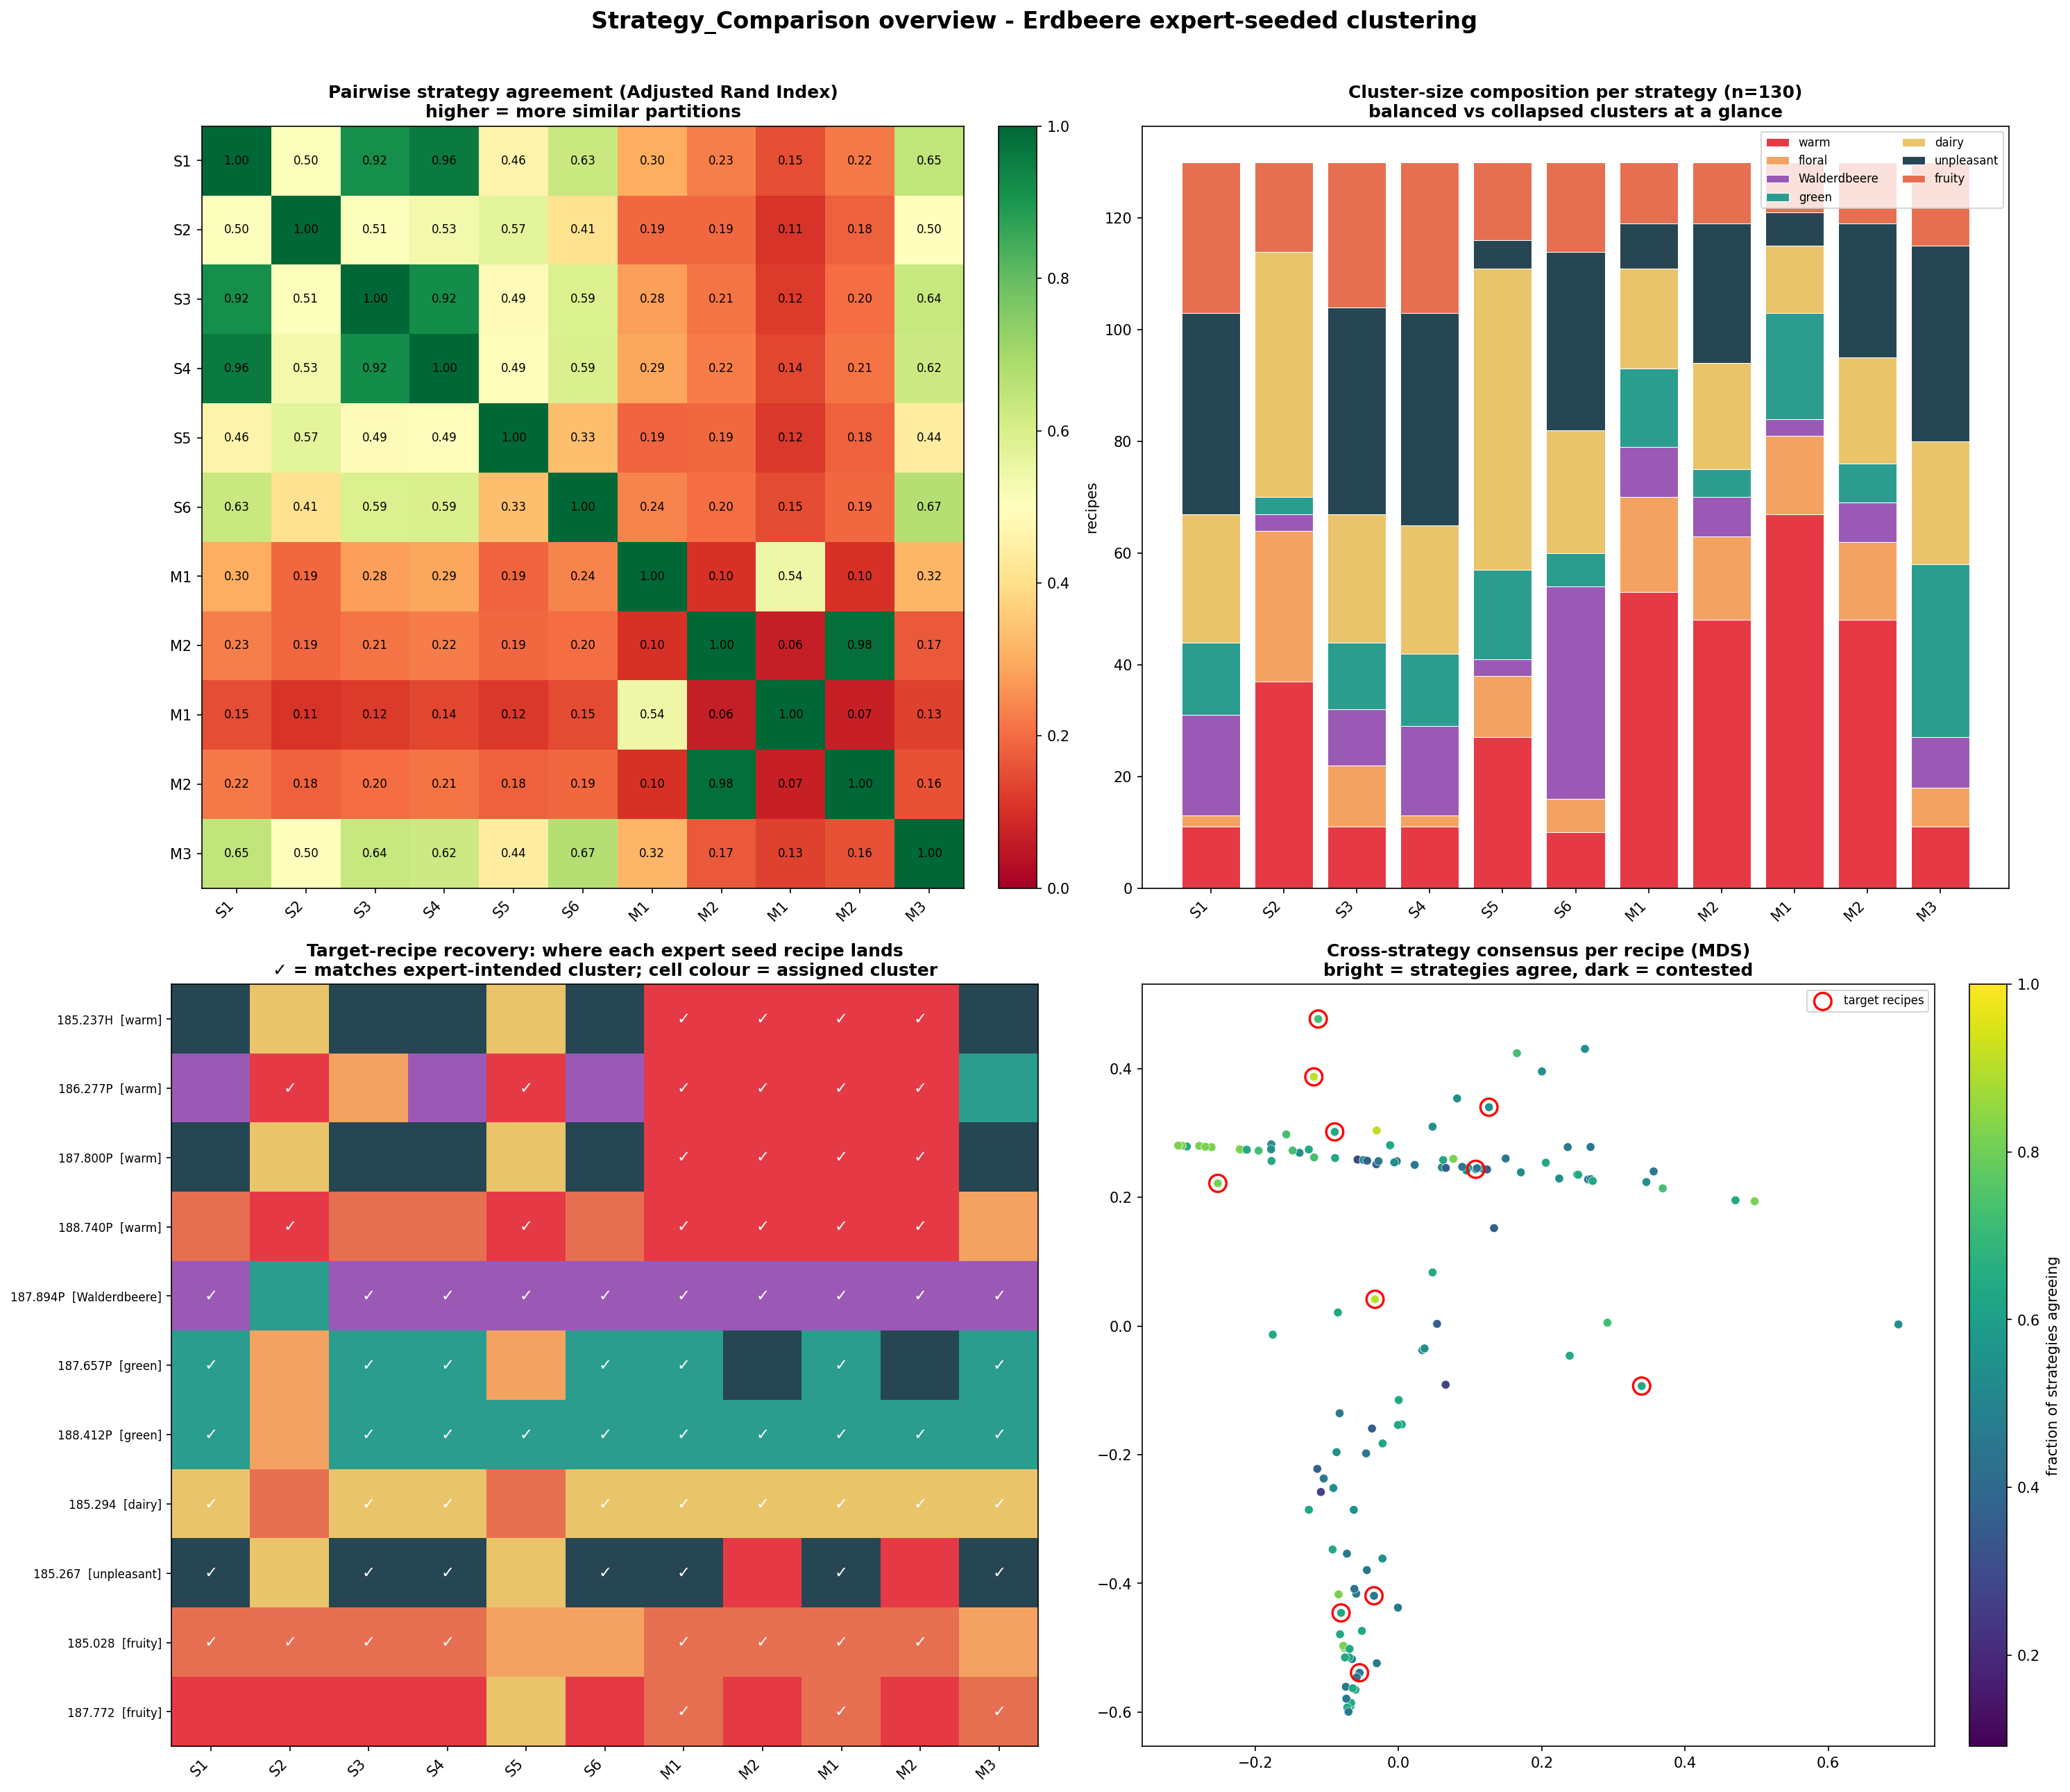
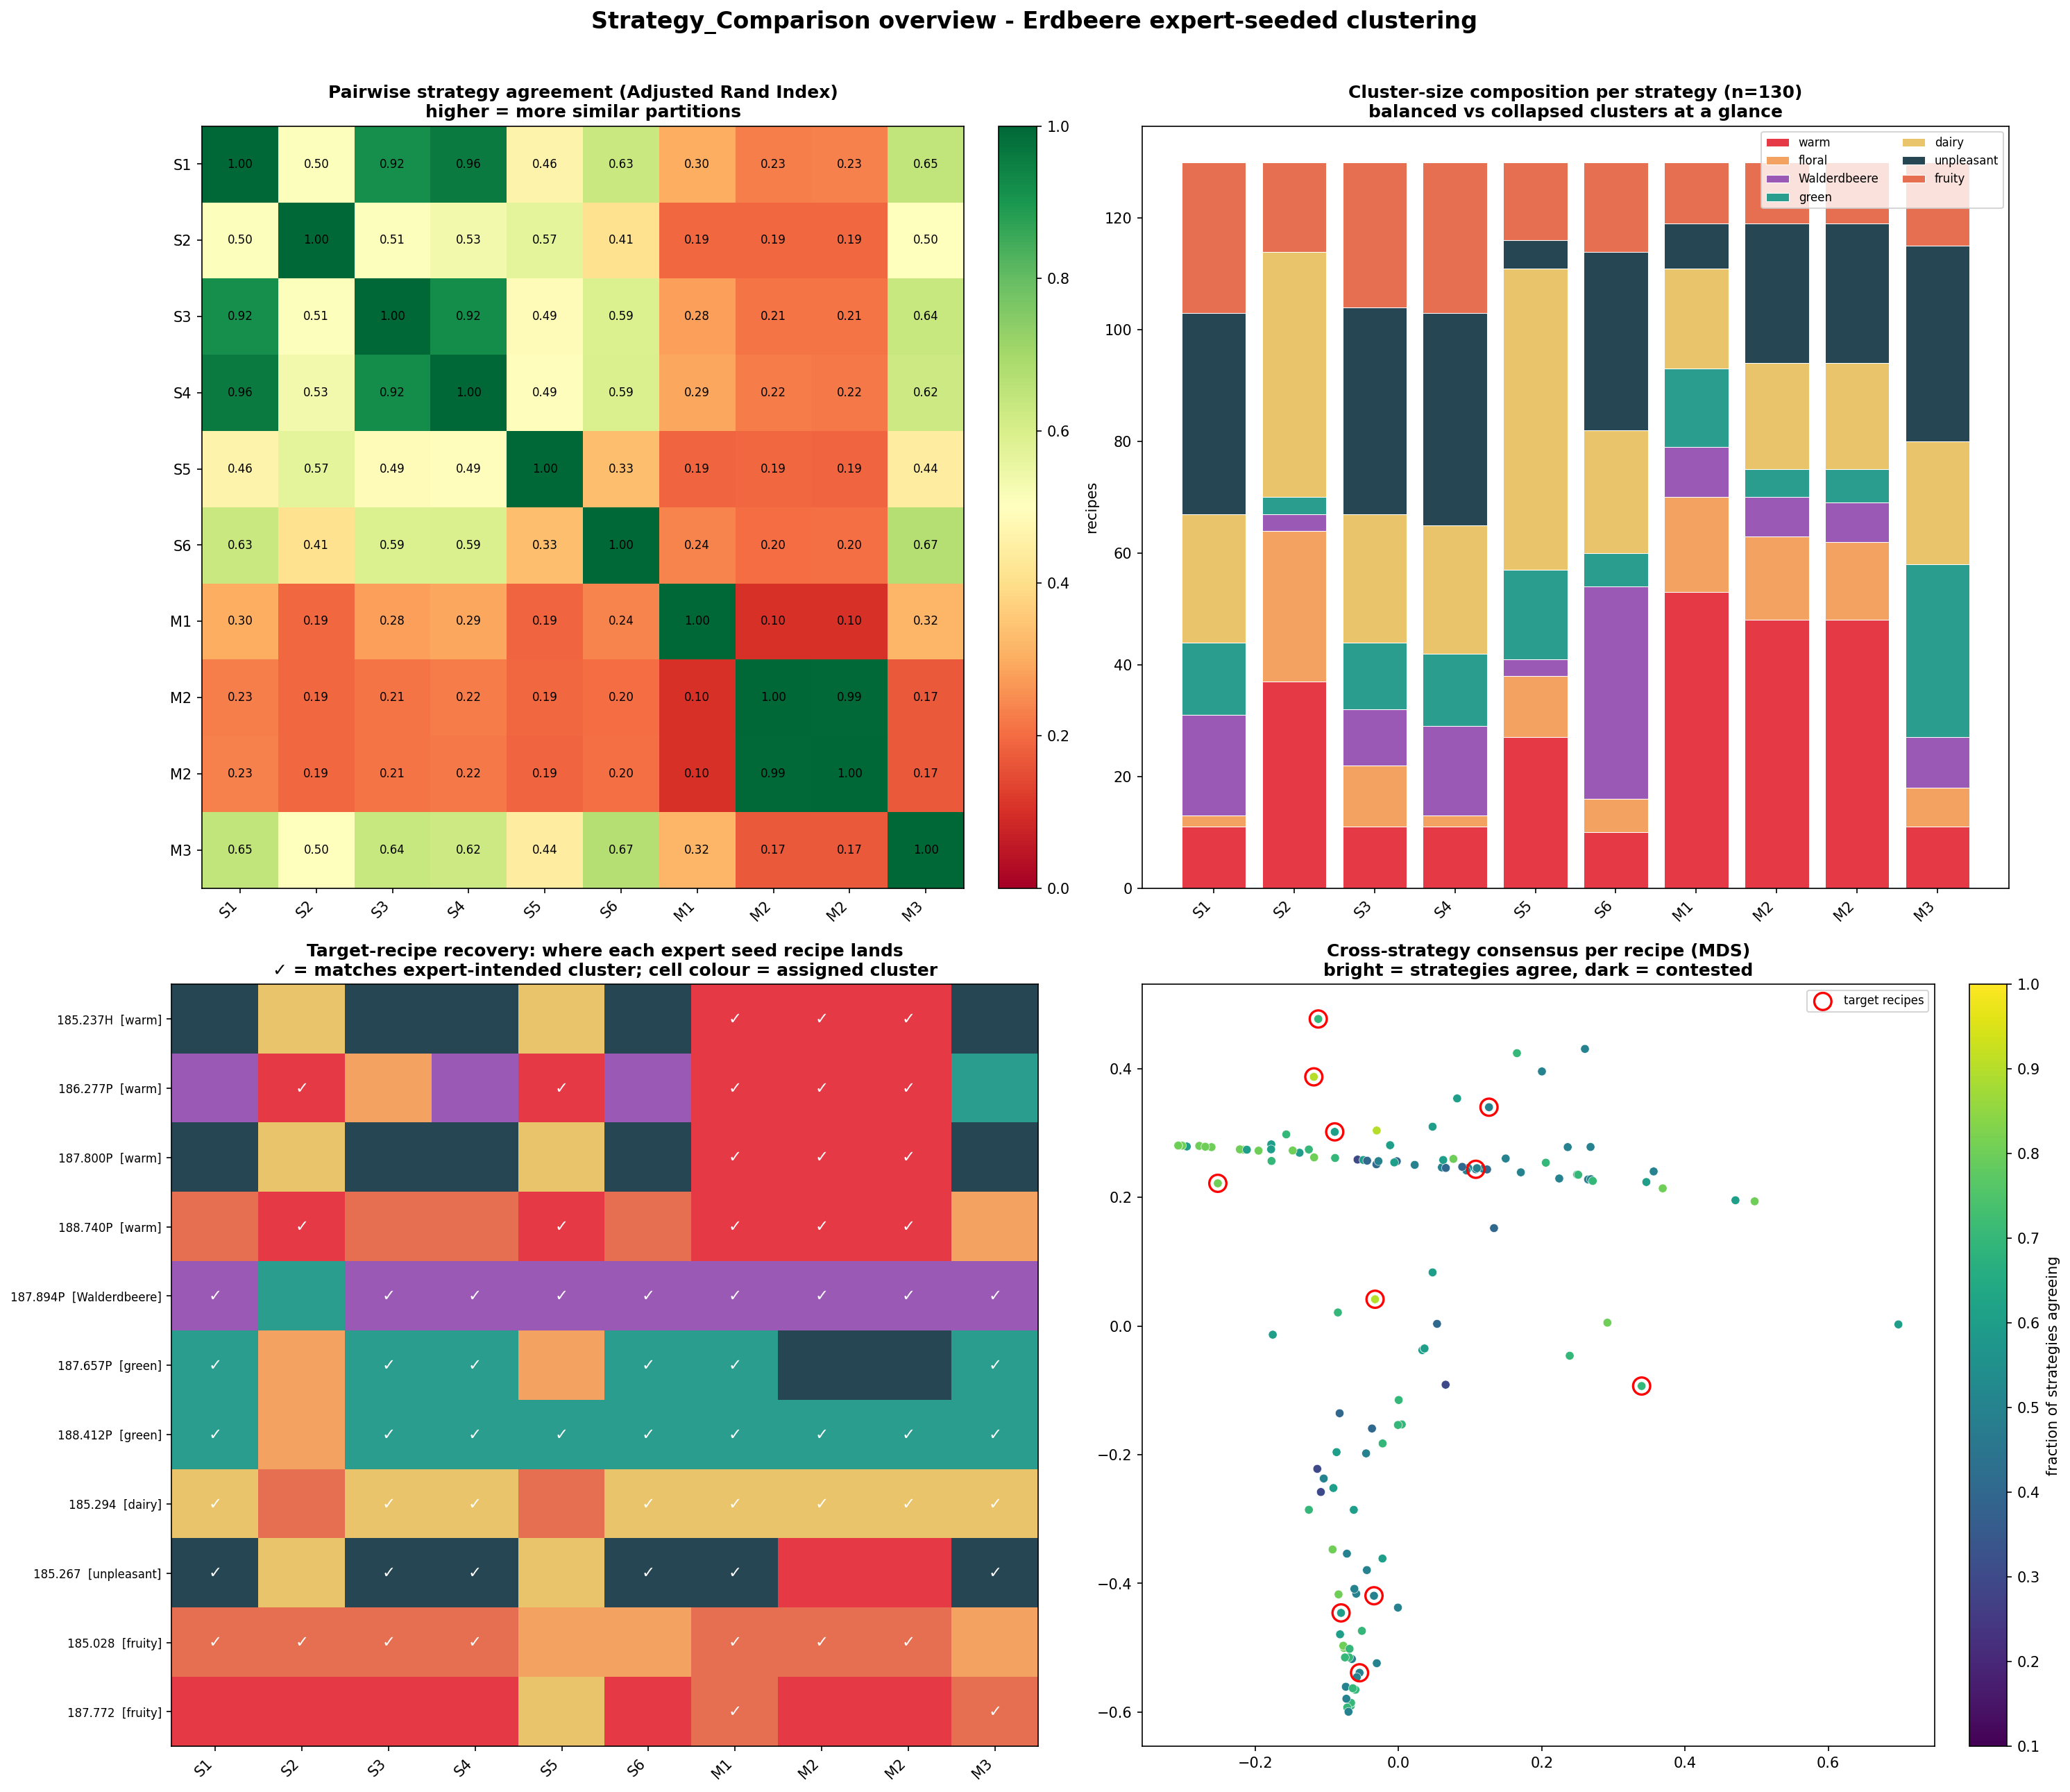
refactor: Tighten keyword variant — margin>=2, drop noisy M1_kw
- Raise KW_MARGIN to 2 (require two agreeing keywords); single-word votes
  no longer count. Confident votes drop from 13 to 3.
- Drop M1_kw entirely: keyword seeding swung 27/130 labels and collapsed
  real clusters — too noisy. Keep only M2_kw (no-rule fallback + tie-break).
- Result: M2_kw now changes exactly 1 tasted recipe (187.246P -> green on
  green:2); the other two confident votes corroborate the warm chemistry
  rule rather than fighting it.
- Notebook regenerated + executed (0 errors).

diff --git a/notebooks/_build_v3_expert_seeded.py b/notebooks/_build_v3_expert_seeded.py
@@ -844,7 +844,8 @@ KW_LEXICON = {
     'mango': 'fruity', 'tutti-frutti': 'fruity',
     'walderdbeere': 'Walderdbeere',
 }
-KW_MARGIN = 1   # top cluster must lead the runner-up by >= this to count as a vote
+KW_MARGIN = 2   # top cluster must lead the runner-up by >= this to count as a vote
+                # (>=2 = at least two agreeing keywords; filters noisy single-word votes)
 
 _ub = pd.read_excel(VERK_XLSX, sheet_name='Übersicht')
 _kwcol = [c for c in _ub.columns if 'Key-Words' in str(c)][0]
@@ -1062,36 +1063,25 @@ for recipe, src, cl, reason in audit:
 
 # ── M1_kw / M2_kw: keyword-enhanced variants ─────────────────────────────────
 CELLS.append(md(
-    """### 7b.1  Keyword-enhanced variants (`M1_kw`, `M2_kw`)
+    """### 7b.1  Keyword-enhanced variant (`M2_kw`)
 
-Same machinery as M1/M2, plus the confident keyword vote — added **alongside**
-the originals so we can measure whether keywords help (see the
-`Verkostung_Compare` sheet). Rules stay authoritative:
+Same machinery as M2, plus the confident keyword vote — added **alongside** the
+original so we can measure whether keywords help (see the `Verkostung_Compare`
+sheet). Rules stay authoritative:
 
-- **`M1_kw`** = M1 with extra seed labels from `kw_vote` (only where a recipe is
-  not already a pinned target), so propagation is pulled toward keyword evidence.
 - **`M2_kw`** = M2 where the keyword vote replaces nearest-centroid for the
-  *no-rule fallback* and breaks *same-tier rule ties*; rule-fired assignments are
-  untouched."""))
+  *no-rule fallback* and breaks *same-tier rule ties*; rule-fired assignments and
+  expert target/anchor recipes are untouched.
+
+An earlier `M1_kw` (label-propagation with keyword seeds) was dropped: even 8
+seeds swung 27 of 130 labels and collapsed real clusters (Walderdbeere, unpleasant),
+so the propagation channel proved too noisy. With the gate raised to
+`KW_MARGIN = 2` (two agreeing keywords) only a handful of high-confidence votes
+remain — most of which the chemistry rules already cover, so M2_kw stays close
+to M2 by design."""))
 
 CELLS.append(code(
-    """# M1_kw — M1 plus confident keyword seeds (does not override target seeds).
-seed_kw = seed_labels.copy()
-added = 0
-for recipe, cl in kw_vote.items():
-    i = recipes.index(recipe)
-    if seed_kw[i] < 0:
-        seed_kw[i] = cluster_to_int[cl]
-        added += 1
-ls_kw = LabelSpreading(kernel='knn', n_neighbors=10, alpha=0.2, max_iter=1000)
-ls_kw.fit(vecs, seed_kw)
-direct_results['M1_kw'] = np.array([int_to_cluster[i] for i in ls_kw.transduction_])
-diff1 = int((direct_results['M1_kw'] != direct_results['M1_label_prop']).sum())
-print(f'M1_kw: +{added} keyword seeds ({int((seed_kw>=0).sum())} total); '
-      f'differs from M1 on {diff1} recipes')
-print('  sizes:', {c: int((direct_results['M1_kw'] == c).sum()) for c in EXPERT_CLUSTERS})
-
-# M2_kw — keyword vote for no-rule fallback and same-tier ties; rules authoritative.
+    """# M2_kw — keyword vote for no-rule fallback and same-tier ties; rules authoritative.
 # Expert target/anchor recipes are never overridden by a keyword (same guard as M1_kw).
 _target_set = {r for s in expert_spec.values() for r in s.get('target_recipes_resolved', [])}
 m2kw_labels, audit_kw = [], []
@@ -1304,7 +1294,6 @@ CELLS.append(code(
     """_methods = [('M1_label_prop', 'M1: Label Propagation'),
             ('M2_rule_based', 'M2: Rule-based'),
             ('M3_consensus',  'M3: Consensus'),
-            ('M1_kw',         'M1_kw: + keyword seeds'),
             ('M2_kw',         'M2_kw: + keyword vote')]
 
 _nm = len(_methods)
@@ -1522,7 +1511,6 @@ def _match_verk(rid, recipes):
 
 new_m1 = {recipes[i]: direct_results['M1_label_prop'][i] for i in range(len(recipes))}
 new_m2 = {recipes[i]: direct_results['M2_rule_based'][i] for i in range(len(recipes))}
-new_m1kw = {recipes[i]: direct_results['M1_kw'][i] for i in range(len(recipes))}
 new_m2kw = {recipes[i]: direct_results['M2_kw'][i] for i in range(len(recipes))}
 
 cmp_rows = []
@@ -1551,7 +1539,6 @@ for _, r in _erg.iterrows():
     cmp_rows.append({
         'Recipe': str(rid).strip(), 'matched': ds,
         'old_M1': old1, 'new_M1': n1, 'M1_change': _flag(old1, n1),
-        'M1_kw': new_m1kw[ds], 'M1kw_vs_M1': '*' if new_m1kw[ds] != n1 else '',
         'old_M2': old2, 'new_M2': n2, 'M2_change': _flag(old2, n2),
         'M2_kw': new_m2kw[ds], 'M2kw_vs_M2': '*' if new_m2kw[ds] != n2 else '',
         'kw_vote': kw_vote.get(ds, ''),
@@ -1574,10 +1561,9 @@ for col, lbl in [('M1_change', 'M1'), ('M2_change', 'M2')]:
         risks = int((compare_df[col] == 'RISK (panel liked old)').sum())
         print(f'  {lbl}: {fixes} potential fixes (panel disliked old), {risks} risks (panel liked old)')
 
-m1kw_d = int(compare_df['M1kw_vs_M1'].eq('*').sum()) if 'M1kw_vs_M1' in compare_df else 0
 m2kw_d = int(compare_df['M2kw_vs_M2'].eq('*').sum()) if 'M2kw_vs_M2' in compare_df else 0
-print(f'\\nKeyword variants on the tasted recipes: M1_kw differs from M1 on {m1kw_d}, '
-      f'M2_kw differs from M2 on {m2kw_d} (marked * in the M1kw_vs_M1 / M2kw_vs_M2 columns).')
+print(f'\\nKeyword variant on the tasted recipes: M2_kw differs from M2 on {m2kw_d} '
+      f'(marked * in the M2kw_vs_M2 column).')
 
 # Append the comparison as a sheet to the strategy export.
 with pd.ExcelWriter(out_xlsx, engine='openpyxl', mode='a', if_sheet_exists='replace') as writer: